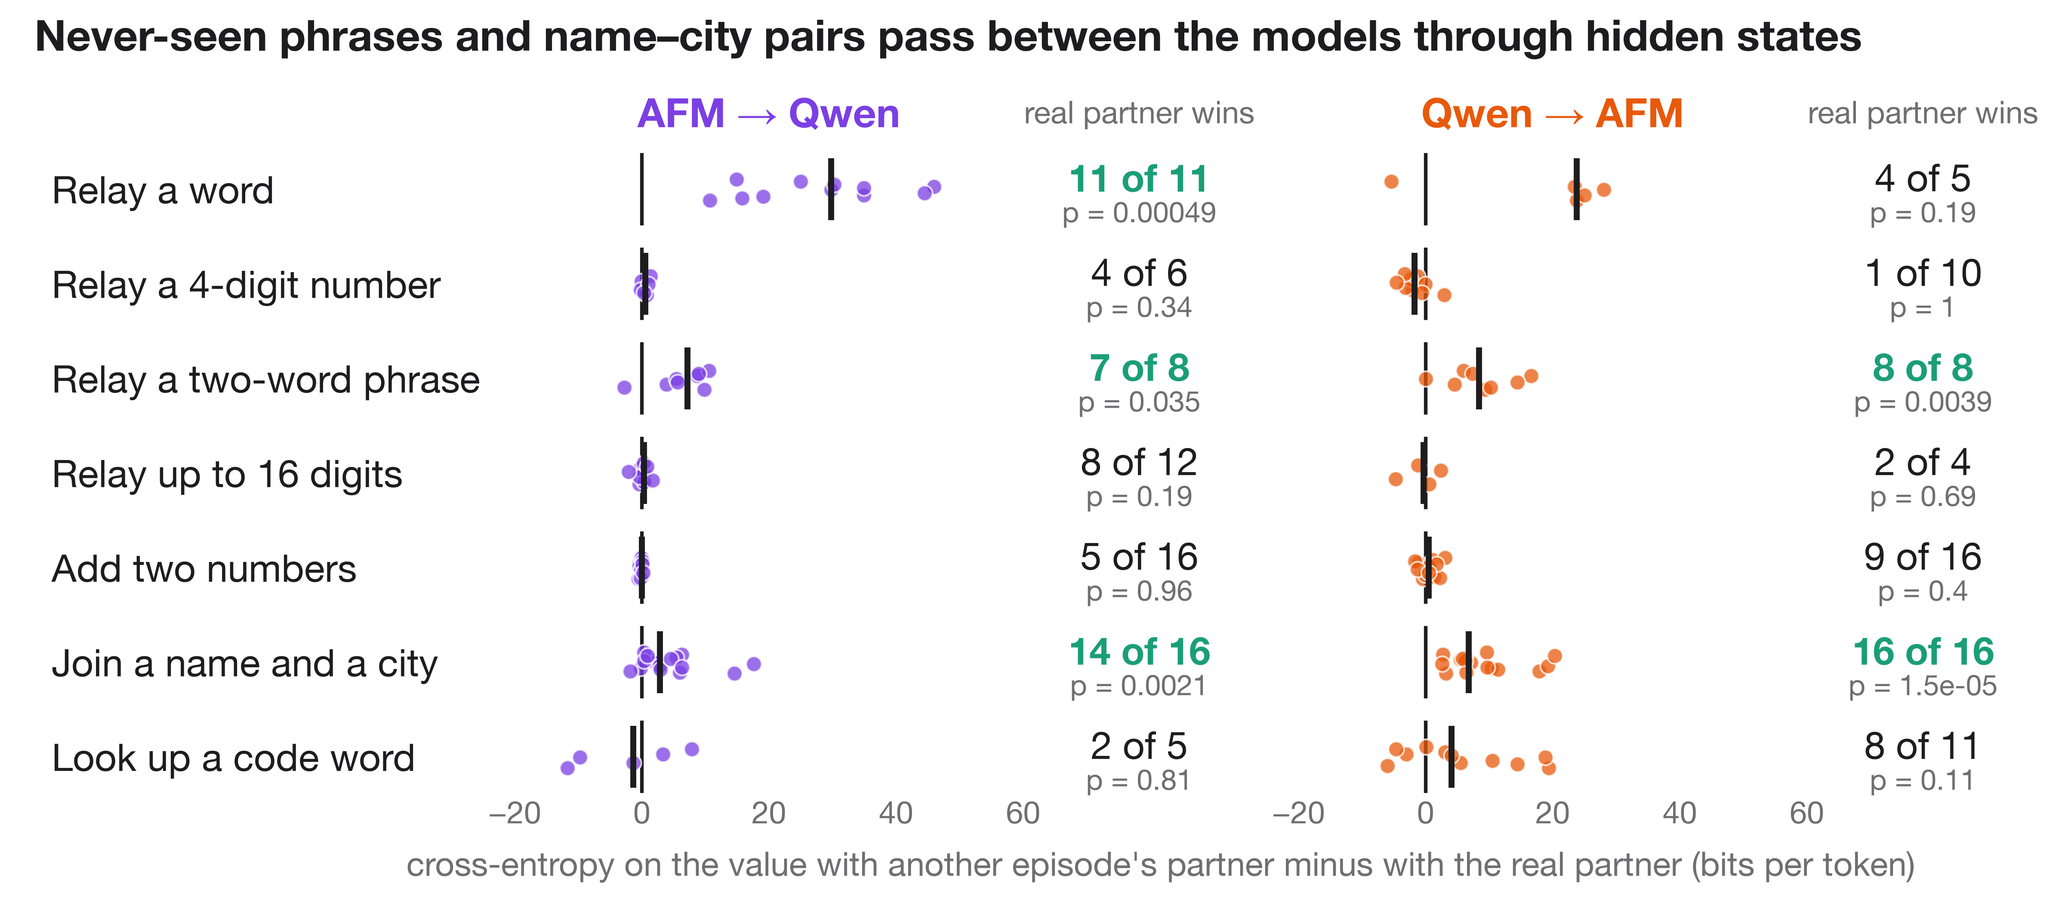
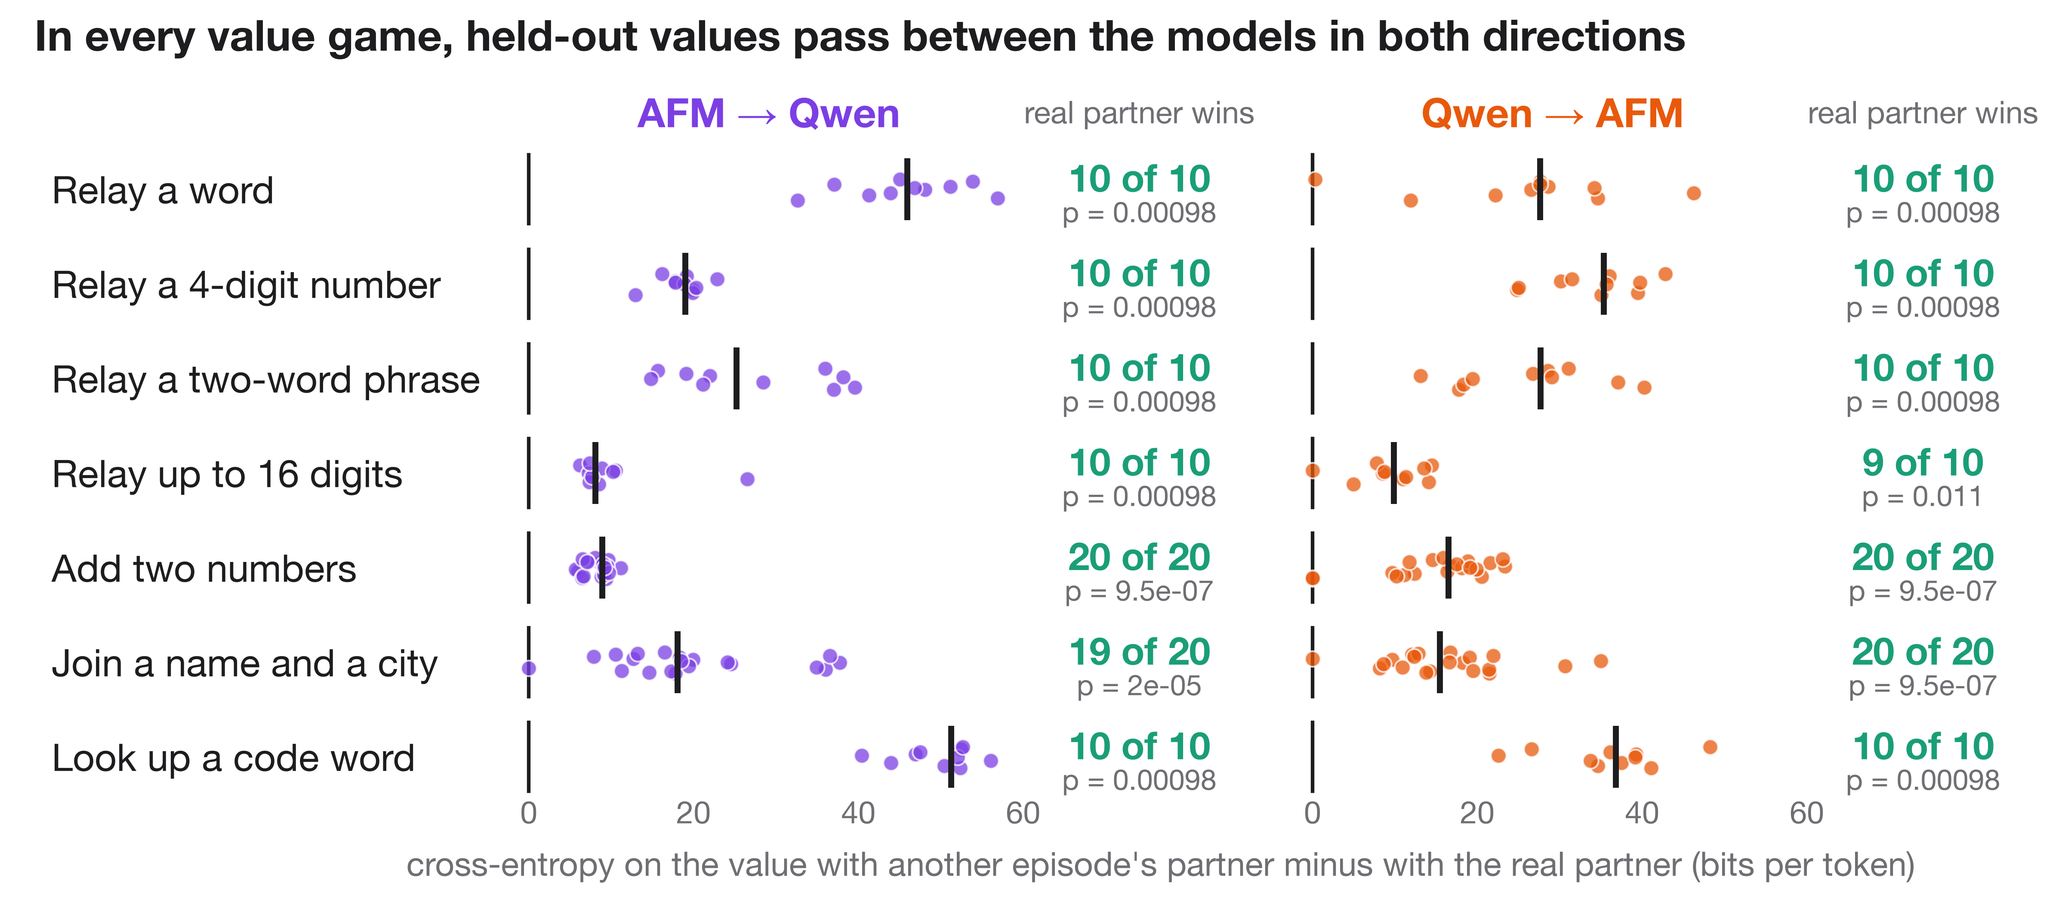
README for the current design; every value game passes held-out values both ways
The README now describes the link as built: the seven-game warm-up, shared reading with distillation, six-turn play,
the turn structures (duplex, dialogue, silent rounds, shared pen), micro-batches, and the evaluation (held-out splits
including numbers, same-role shuffled partners, receivers balanced, free-generation shuffle caveat). The transfer figure
is magic-nl16's final checkpoint (step 1586, value games only), n = 20 per game balanced between receivers: the real
partner wins 178 of 180 held-out episodes, every game in both directions at p < 0.05. The figure's axis now starts at
the data and its title is short when every game passes.

diff --git a/figures/make_figures.py b/figures/make_figures.py
@@ -1118,18 +1118,22 @@ def transfer(src=None):
         return wins, n, (binom.sf(wins - 1, n, 0.5) if n else 1.0)
     both = [g for g in games if all(d[(g, x)] and test(d[(g, x)])[2] < 0.05 for x, _ in RECEIVERS)]
     vals = [v for vs in d.values() for v in vs]
-    ticks = span_ticks(min(vals + [0.0]), max(vals + [0.0]), 5)
+    lo, hi = min(vals + [0.0]), max(vals + [0.0])
+    ticks = span_ticks(lo, hi, 5)
+    ends = (min(0.0, lo - 0.03 * (hi - lo)), ticks[-1])
+    ticks = [v for v in ticks if v >= ends[0]]
     RH = 110
     fig, ax = canvas(420 + RH * len(games), 2 * W)
     lab_end = 60 + max(text_width(ax, LABEL[g], 32) for g in games) + 40
     NW, G1 = 270, 50
     SW = (2 * W - 30 - lab_end - 2 * NW - G1) / 2
     base = lambda c: lab_end + c * (SW + NW + G1)
-    sxs = [(lambda v, x0=base(c): x0 + SW * (v - ticks[0]) / (ticks[-1] - ticks[0])) for c in range(2)]
+    sxs = [(lambda v, x0=base(c): x0 + SW * (v - ends[0]) / (ends[1] - ends[0])) for c in range(2)]
     top = 320 + RH * len(games)
     names = [SHORT_GAME.get(g, LABEL[g].lower()) for g in both]
     claim = (", ".join(names[:-1]) + " and " + names[-1] if len(names) > 1 else names[0]) if names else "no value"
-    title = f"In held-out episodes, {claim} pass between the models through hidden states"
+    title = ("In every value game, held-out values pass between the models in both directions" if len(both) == len(games)
+             else f"In held-out episodes, {claim} pass between the models through hidden states")
     write(ax, 40, top, title, min(36, 36 * (2 * W - 80) / text_width(ax, title, 36, True)), True, ha="left")
     for c, (x, colour) in enumerate(RECEIVERS):
         write(ax, base(c) + SW / 2, top - 90, way(x), 34, True, colour)
@@ -1139,7 +1143,7 @@ def transfer(src=None):
         write(ax, 60, y, LABEL[g], 32, ha="left")
         for c, (x, colour) in enumerate(RECEIVERS):
             vs, sx = d[(g, x)], sxs[c]
-            if ticks[0] <= 0 <= ticks[-1]:
+            if ends[0] <= 0 <= ends[1]:
                 ax.plot([sx(0)] * 2, [y + 40, y - 40], color=INK, lw=3, zorder=2)
             if not vs:
                 continue
@@ -1156,7 +1160,7 @@ def transfer(src=None):
     for c in range(2):
         for v in ticks:
             write(ax, sxs[c](v), y + 46, minus(f"{v:g}"), 26, color=MUTED)
-    write(ax, (sxs[0](ticks[0]) + sxs[1](ticks[-1])) / 2, y - 14, "cross-entropy on the value with another "
+    write(ax, (sxs[0](ends[0]) + sxs[1](ends[1])) / 2, y - 14, "cross-entropy on the value with another "
           "episode's partner minus with the real partner (bits per token)", 28, color=MUTED)
     crop(fig, ax, y - 60, top + 40)
     save(fig, "transfer")

diff --git a/README.md b/README.md
@@ -1,148 +1,160 @@
 # neural-pairing
 
-Two language models from different families, Quill (Qwen3-4B) and Ember (AFM-4.5B), are trained together with a learned
-channel between their forward passes, so that each can pass information to the other without text. Both models have 36
-blocks and a 2560-wide residual stream.
+Two language models from different families, Quill (Qwen3-4B) and Ember (AFM-4.5B), are joined by a learned link
+between their hidden states. At 8 depths, each model reads the other's hidden states through gated cross-attention, in
+both directions, inside one joint forward pass. No tokens cross the link. Each model still writes ordinary text, and in
+dialogue games each reads the other's words as a user message, as in a normal chat.
 
-**Status: the link is not formed yet.** In both designs tried so far, the receiving model does not learn to read the
-learned part of the channel. After 200 training steps, held-out cross-entropy on the partner's value is no lower with the real messages than
-with messages from another episode, in every game and direction, with one exception (adding two numbers, Qwen to AFM).
-That exception comes from the part of a message that is the sender's next-token distribution re-embedded as text, not
-from the learned part.
+**Result.** After a warm-up on seven value games, the link passes held-out words, 4-digit numbers, two-word phrases,
+digit strings, sums, name–city pairs and code-word lookups in both directions. The receiver's cross-entropy on the
+value is lower with its real partner than with the partner of another episode in 178 of 180 held-out episodes, on the
+final checkpoint of a run trained on the value games only (figure). With the full
+training mix the models also read each other's texts through the link: in shared-reading games, the reader's mean
+cross-entropy on the answer over held-out episodes is lower with its real partner than with a shuffled one in 31 of 32
+game–receiver groups (16 games, step 600).
 
-![Link minus shuffled messages per game and direction](figures/probe.png)
+![Held-out values passing between the models](figures/transfer.png)
 
-## Setup
+## The link
 
-![How a message reaches the partner](figures/method.png)
+![How one model reads the other's hidden states](figures/method.png)
 
-**Games.** Both models write a reply at the same time, one token per tick, and neither sees the other's text
-(duplex). Each game puts a value in one model's prompt that the other model must write:
+After blocks 6, 9, …, 27 of 36, each model x reads the other model y:
 
-- relay a word, a 4-digit number, a two-word phrase, or up to 16 digits;
-- add two numbers, one in each prompt;
-- join a name and a city, one in each prompt;
-- look up a code in the partner's table.
+    h_x += tanh(α) · size · O(attention(Q(norm h_x), [null; K(norm h_y)], [0; s · V(norm h_y)]))
 
-Non-payload games are also in the training mix: steering the partner to a concept, and saying who you are. There are
-also dialogue games and competitive games (resist, impersonate, bluff). The prompts and teacher-forced replies come from
-`prep.py`; the game definitions are in `games.py`.
+- Q, O and α belong to the reader; K, V and the visibility gate s = σ(w · norm(h_y) + b) belong to the sender. The gate
+  is one number per sender position and exchange, and it scales the values, so a closed gate hides the position.
+- size is the reader's typical residual size after that block, so tanh(α) is the write's size relative to the
+  residual stream. A learned null key with a zero value lets a reader attend to nothing.
+- Time runs in ticks: a token reads the partner's tokens of the same or an earlier tick, and both prompts sit at tick −1.
+  Each head has a learned bias by how many ticks ago a partner token was read.
+- Both reads at an exchange use the states before the exchange, so the dependency graph is acyclic in depth and the
+  joint teacher-forced pass equals tick-by-tick generation.
+- 8 heads of 128 dimensions in float32 per exchange and direction. The link and rank-32 LoRA adapters on both models
+  train; the original weights are frozen.
 
-**Training.** LoRA (rank 32) on both models plus both halves of the link. Training uses teacher-forced coupled forward
-passes with 2 or 3 Gauss-Seidel rounds (`link.Pair.coupled`), which are exact for every chain of up to 2R hops between
-the models. For the first 40% of the schedule every gate is open and sending is free.
+## Starting from a fitted map (`align.py`, `train.py --content_init qkvo`)
 
-**Exactness checks** (`tests/`). On tiny random models of both architectures:
+A link with random Q and K attends to arbitrary partner positions, so its first gradients are weak and inconsistent.
+The fitted start sets every exchange so that a reader position attends to the partner position that has read the same
+text:
+
+1. Both models read the same 192 texts (none from the held-out split). A token of one model and a token of the other
+   match when both end at the same character.
+2. At each exchange, a ridge regression maps the sender's normalized states to the reader's (M, about 4,300 matched
+   token pairs; the penalty is chosen on texts outside the fit).
+3. The sender's keys become K = c · Q · M, so a query's logit on a key is its similarity to the reader state predicted
+   from that key. V and O start from the top singular directions of M, so a write delivers the matched partner state
+   mapped into the reader's space.
+
+On the 6 texts outside the fit, the reader's top attention lands on the matched partner token 89–97% of the time
+(chance 1.2%; 1% with random Q and K); R² of the map is 0.51–0.66. tanh(α) starts at 0.1, so at step 0 each write is
+a small mapped copy of the matched partner state (about 5% of the residual's size). A random start also opens the
+link when training starts with the value games only, more slowly and with less transfer to games it was not trained
+on (name–city pairs 20/32 vs 29/32 at step 200); in the full mix from a random start, the gates closed before the link
+opened.
+
+![Percent of held-out words the real partner wins over training](figures/opened.png)
+
+## Games and turn structures
+
+**Value games** put a value in one model's prompt that the other model must write: relay a word, a 4-digit number, a
+two-word phrase or up to 16 digits; add two numbers, one in each prompt; join a name and a city, one in each prompt;
+look up a code in the partner's table.
+
+**Shared reading** (`coread.py`): a text or task is split between the models (a question on one side and the
+passage on the other, a premise and a hypothesis, a word problem, code and a question about its output, a multiple-
+choice question and its options, a text to translate or paraphrase), and the reader answers. With distillation
+(`prep_coread.py`), the reader's whole reply is trained toward the reply the original model writes when it reads the
+whole text itself.
+
+**Play** (`co_play`, written by `prep_talk.py --play`): six-turn conversations in which each model holds a secret: guess
+my word, the gift you wish for, where I am on holiday, a shared story on your topic, a rhyme on your word. The opener
+names the partner's secret in its first turn and the partner names the opener's in its reply. The models wrote these
+conversations themselves, each naming turn with the partner's secret shown; in training the secret is gone from the
+prompt, so it can only come through the link. Conversations in which the opener says its own secret are dropped.
+
+**Turn structures** (`session.py`):
+
+- duplex: both models write at once, one token per tick, and neither sees the other's text;
+- dialogue: alternating turns; the listener reads the speaker's words as they are written, and reads its hidden
+  states through the link;
+- silent rounds (`--pause K`): K ticks before each reply or turn in which both models write only a space, so only
+  hidden states pass;
+- shared pen (`--pen P`): the two models write one text together, alternating words.
+
+## Evaluation
+
+Every value in an evaluation episode comes from the held-out split: it is never used as a value in training (it can
+still appear as an ordinary word in training texts). Words, phrases, names, cities and code words come from disjoint
+pools; sums are 50–99 in evaluation and 0–49 in training; numbers and digit strings whose digit sum is 3 modulo 7 are
+held out (from 673d582; earlier runs drew training numbers from the full range). Each game has 16 episodes at every
+evaluation step (`train.py --payload_eval`) and 20 on the final checkpoint (`payload_ctl.py`), half with each model as
+the receiver.
+
+- **Shuffle control.** Each episode is also run with the partner of another episode of the same game, in the same
+  roles. The receiver's input is perturbed as much as with the real partner, but the value is gone. The readout is the
+  cross-entropy on the value tokens with the shuffled partner minus with the real partner, per episode.
+- **Test.** The count of episodes in which the real partner wins, with an exact one-sided sign test. Ties (a link that
+  writes exactly nothing) are left out. The size of the gap is not the readout: a confident wrong copy from the
+  shuffled partner inflates it.
+- The link-cut control (no partner at all) is also recorded; it changes the receiver's input more than a shuffle does.
+- In free generation of dialogues, a shuffled partner is not an isolated control: the generated text carries
+  information from episode to episode around the shuffle, so free-generation comparisons are with the link cut.
+
+**Other measurements:** `turnbench.py` scores the same secrets under every turn structure; `lens.py` shows, per token,
+how much the link changed the reader's next-token distribution, which partner tick it came from (tick ablations) and
+what each exchange's write decodes to downstream; `play_live.py` plays a game on the Mac from a trained checkpoint
+(4-bit MLX) and saves it as a web page with each token shaded by the size of the link's write.
+
+## Training (`train.py`)
+
+The link and the LoRA adapters train together. A run starts with the value games only (`--relay_first`, all seven
+games), then trains on the full mix of value games, shared reading, play, dialogue and identity anchors, with the gates
+and α frozen (`--hold`). `--micro K` splits each batch into K groups of similar length with summed gradients, so short
+value episodes are not padded to the length of play conversations: on one A100 80 GB, 4.5 s per step for the full mix
+instead of 8.
+
+## Earlier designs
+
+1. **Additive residual write.** A send head wrote a 256-number message and a gate into the partner's residual stream
+   after block 11. The value was decodable from the message (128/128 episodes, chance 2%), but the receiver never
+   learned to use it, and the gates closed once sending had a cost.
+2. **Soft-token slot.** Each message became an extra input position. The only slice that passed information was the
+   sender's next-token distribution re-embedded as text (adding two numbers, Qwen to AFM); the learned part passed
+   nothing. Per-slice results are in `results/probe.json`.
+
+## Exactness checks (`tests/`)
+
+On tiny random models of both architectures (CPU, float32):
 
 | Check | Max difference |
 |---|---|
-| Coupled training forward vs step-by-step generation | 4e-7 to 2.1e-6 |
+| Joint teacher-forced pass vs tick-by-tick generation (last hidden state, relative; duplex, dialogue, shuffled partners, link closed after turn 1) | 4.9e-7 to 5.8e-7 |
 | Gradients with vs without gradient checkpointing | 0 |
-| Two-rank data parallel vs single process | < 1.7e-6 |
-
-## Design 1: additive residual write
-
-The send head reads the sender's residual after block 24 and writes a 256-number message and a gate. The receive adapter
-maps the gated message into the partner's residual after block 11, at the partner's next token. Variants tried:
-zero-initialized receive adapter, random init, and an "inbox" where messages stay in the stream.
-
-**Result.** Payload accuracy was at most 1/32 in every relay, merge and lookup game at step 200, and the gates closed
-once sending had a cost. On training batches, payload cross-entropy with the link matched the link-cut value to within
-0.03 nats per payload token in every game but lookup, which has only 4 payload tokens per batch and differed by up to
-0.28 (for example, adding two numbers: 1.41 vs 1.41).
-
-**The fault is on the receiving side.** A ridge classifier on the messages, fit on 384 episodes and scored on 128 others
-(`decode.py`), decodes the sender's own number in the two-number game 128/128 times (exact 95% interval 97–100%; chance
-2%). It does so from the trained send heads and also from an untrained one. So the value is in the message from the
-start, and the receiver never uses it. The first digit of relay-digits is not decodable from the sender's first four
-messages (3–13%; chance 10%). The sender's reply answers an unrelated question and never mentions the digits.
-
-## Design 2: soft-token slot (`train.py --soft`)
-
-Each partner message becomes an extra input position (a slot) placed just before the receiver's token it reaches. Later
-receiver tokens attend to the slot. The slot vector is
-
-    sum_v p(v) E_recv[v]  +  (1 - sum_v p(v)) null  +  recv(message) * size
-
-The terms are:
-
-- `p` is the sender's next-token distribution at that tick (detached).
-- The sum runs over tokens whose decoded strings match exactly between the two vocabularies: 108,580 of Qwen's 151,669
-  and 108,575 of AFM's 128,005.
-- `null` is a learned vector.
-- `recv` is the receive adapter, zero at initialization.
-- A closed gate gives the null slot.
-- Cutting the link masks the slots and renumbers positions, so the receiver reads exactly its own text.
-
-**Why a shuffle control.** Link vs cut is not an information test here. Removing the slots changes the receiver's
-input, and at step 0, before any training, the median of link minus cut already ranged from −16 to +5 nats across
-game × direction slices. The control is
-shuffled messages: each episode gets the messages, including the slot text, of another episode of the same game. The
-receiver's input is perturbed as much as with the real link, but the information is removed (`payload_ctl.py`).
-
-**Runs.** One A100, 200 steps of the 1000-step schedule, every gate open, batch size 16, two arms:
-
-- **default**: link learning rate 1e-3, size 0.3.
-- **large**: link learning rate 3e-3, size 1.0.
-
-Evaluation uses 140 fixed held-out episodes: test split, seed 4242, 20 per payload game. Each episode yields one
-difference d = link − shuffle in mean cross-entropy over the payload tokens; the two merge games average their two
-receivers. The intervals are exact distribution-free 95% intervals for the median (binomial order statistics). The p
-values are exact sign tests.
-
-| Arm | Slice | Median link − shuffle (nats) | 95% interval | Link lower | Sign test p |
-|---|---|---|---|---|---|
-| default | all 140 episodes | −0.0035 | [−0.0091, +0.0049] | 74/140 | 0.55 |
-| large | all 140 episodes | −0.0021 | [−0.0063, +0.0005] | 78/140 | 0.20 |
-| default | add two numbers, Qwen → AFM | −6.09 | [−7.11, −4.03] | 19/20 | 4e-5 |
-| default | add two numbers, AFM → Qwen | −0.011 | [−0.031, +0.001] | 13/20 | 0.26 |
-| large | add two numbers, Qwen → AFM | −0.010 | [−0.033, +0.028] | 11/20 | 0.82 |
-
-Every other game × direction slice in both arms has a median within ±0.02 nats and an interval that contains 0; the
-per-slice values are in `results/probe.json` and the figure above.
-
-**The one positive slice is soft text.** In the two-number game each model writes its own number, so the sender's
-next-token distribution puts its mass on that number's tokens.
-
-- Qwen writes "37" as `3`, `7`. Both tokens exist in AFM's vocabulary, so AFM receives Qwen's digits as soft text.
-- AFM writes "37" as the single token `37`, which has no exact match in Qwen's vocabulary. Its mass goes to the null
-  vector, so Qwen receives nothing.
-
-In the relay games the sender's reply answers an unrelated question and never contains the value, so only the learned
-part could carry the value, and it carries nothing.
-
-**The large arm loses even this.** At size 1.0 with the faster link learning rate, the learned part grew to 11–14×
-the RMS of the input embeddings and swamped the text part.
-
-## Baselines (QA)
-
-These are for the planned benchmark comparison: ARC-Challenge and MMLU, 1500 steps each, validation accuracy on 128
-questions, exact 95% intervals.
-
-| Configuration | Accuracy | 95% interval |
-|---|---|---|
-| Qwen alone, fine-tuned | 86.7% | [79.6, 92.1] |
-| AFM alone, fine-tuned | 84.4% | [76.9, 90.2] |
-| A text pair answering in turn | 85.9% | [78.7, 91.4] |
-
-The linked pair was not benchmarked, because the link carries nothing it could use.
+| Gradients of one batch vs length-grouped micro-batches vs two ranks | 2.2e-7 |
+| Logits with untrained links (α = 0) vs the plain models | 0 (bit for bit) |
+| Recorded attention (explicit softmax) vs fused attention | 1.6e-6 |
 
 ## Running
 
 ```
 pip install torch transformers peft datasets safetensors scipy matplotlib
 cd pairing
-python prep.py --out OUT                          # prompts and teacher-forced replies -> OUT/replies.json
-python build_bench.py                             # ARC + MMLU splits -> data/bench.json (only for --qa/--solo/--text_pair)
-python train.py --replies OUT/replies.json --out OUT/run --soft --payload_eval 140
-python payload_ctl.py --run OUT/run/step_N --replies OUT/replies.json --out OUT/ctl.json
-python decode.py --replies OUT/replies.json --run OUT/run/step_N     # is the payload in the messages?
-cd .. && python tests/test_link.py && python tests/test_ddp.py --replies OUT/replies.json --soft
-python figures/make_figures.py
+python prep.py --out OUT                                         # prompts and teacher-forced replies
+python build_coread.py                                           # public texts both models read -> data/coread.json
+python prep_talk.py --play --turns 6 --n_train 1600 --n_test 300  # play conversations -> data/play.json
+python prep_coread.py --replies OUT/replies.json                 # distillation replies, added to replies.json
+python train.py --replies OUT/replies.json --out OUT/run --content_init qkvo --read_start 0.1 --gate_norm --hold 100000 \
+    --payload_w 3 --relay_first 900 --relay_games relay_word,relay_number,relay_phrase,relay_digits,merge_sum,merge_fact,lookup \
+    --steps 3000 --coread 0.35 --dialogue 0.15 --anchor 0.1 --pen 0.05 --pause 4 --pause_p 0.5 --comp 0 --micro 4 \
+    --ckpt none --payload_eval 16
+python payload_ctl.py --run OUT/run/step_N --replies OUT/replies.json --out OUT/payload.json --n 20 --coread
+python turnbench.py --run OUT/run/step_N --replies OUT/replies.json --out OUT/turnbench.json --n 128
+cd .. && python tests/test_link.py && python tests/test_align.py && python tests/test_coldstart.py
+python figures/make_figures.py transfer=OUT/payload.json opened=OUT/run
 ```
-
-`evaluate.py` measures game accuracy on held-out episodes with the link cut, shuffled or randomized. `bench_eval.py` runs
-the QA benchmark arms. `rl.py` runs self-directed play, and `demo.py` writes transcripts.
 
 ---
 
